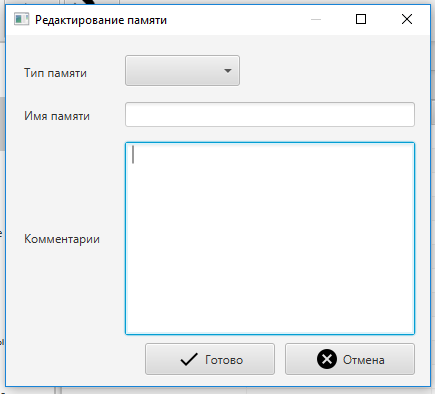
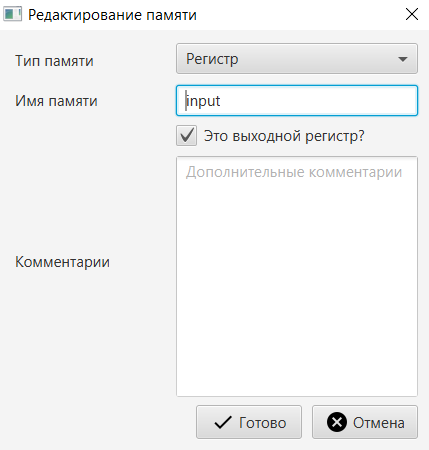
Актуализирована справка по редактору

Changed region(s): [[0.0, 0.0, 1.0, 1.0]]

diff --git a/interface/src/main/resources/help/doc1/WorkWithApp.html b/interface/src/main/resources/help/doc1/WorkWithApp.html
@@ -26,7 +26,7 @@
 является некоторой интегральной характеристикой обрабатываемой
 информации. Примерами алфавитов могут быть цифры, буквы, буквы и цифры
 и тд.</span></p><p><span style="font-family: 'Times New Roman',Times,serif; font-size: x-large;">При двойном нажатии по элементу "Алфавит", &nbsp;в табличном представлении показывается таблица с наборами алфавитов.</span></p>
-<p align="center"><span style="font-family: 'Times New Roman',Times,serif; font-size: x-large;"><img alt="" src="ABC1.png"></span></p>
+<p align="center"><span style="font-family: 'Times New Roman',Times,serif; font-size: x-large;"><img alt="" src="TabView3.jpg"></span></p>
 <p align="center"><font size="5"><font face="Times New Roman, Times, serif"><i>Рисунок 2 - Таблица алфавитов</i></font></font></p>
 <p><font size="5"><font face="Times New Roman, Times, serif">На панели инструментов (снизу) расположены кнопки:</font></font></p>
 <p><font size="5"><font face="Times New Roman, Times, serif"><img alt="" src="ic_add_box_black_24dp_1x.png" height="32" width="32">&nbsp;- Добавление алфавита</font></font></p>
@@ -36,7 +36,7 @@
 	кнопки "Добавить" пользователь может создать свой собственный алфавит.
 	Также, при нажатии кнопки "Редактировать" появится диалоговое окно
 	"Редактор алфавитов", в котором можно редактировать алфавит.</font></font></p>
-<p align="center"><font size="5"><font face="Times New Roman, Times, serif"><img alt="" src="ABC2.png"></font></font></p>
+<p align="center"><font size="5"><font face="Times New Roman, Times, serif"><img alt="" src="ABCEdit.PNG"></font></font></p>
 <p align="center"><i style="font-family: 'Times New Roman',Times,serif; font-size: x-large;">Рисунок 3 -&nbsp;</i><i style="font-family: 'Times New Roman',Times,serif; font-size: x-large;">Окно "Редактор алфавитов"</i></p>
 <h3>&nbsp;</h3>
 <h3><a name="Ja_4"><font size="5"><font face="Times New Roman, Times, serif">Алгоритм</font></font></a></h3>
@@ -45,7 +45,7 @@ RBM осуществляется по R-программе. R-программа
 комплексов команд. Каждая команда состоит из 4 полей:&nbsp;</span></p><ul><li><span style="font-family: 'Times New Roman',Times,serif; font-size: x-large;">поле имени комплекса (т.н. номер вершины),&nbsp;</span><span style="font-family: 'Times New Roman',Times,serif; font-size: x-large;">пропускается, для второго и последующих операторов в теле одной команды</span></li><li><span style="font-family: 'Times New Roman',Times,serif; font-size: x-large;">поле условия (или предиката), пропускается, для второго и последующих операторов в теле одной команды</span></li><li><span style="font-family: 'Times New Roman',Times,serif; font-size: x-large;">поле операторов команды</span></li><li><span style="font-family: 'Times New Roman',Times,serif; font-size: x-large;">поле преемника ( номер конечной вершины, заполняется только для последнего оператора).<br></span></li></ul><p><span style="font-family: 'Times New Roman',Times,serif; font-size: x-large;">При
 двойном нажатии по элементу "Алгоритм", &nbsp;в табличном представлении
 показывается таблица с набором последователностей алгоритма.</span></p>
-<p align="center"><img alt="" src="Algor2.png" style="font-family: 'Times New Roman',Times,serif; font-size: x-large;"></p>
+<p align="center"><img alt="" src="TabView1.jpg" style="font-family: 'Times New Roman',Times,serif; font-size: x-large;"></p>
 <p align="center"><i style="font-family: 'Times New Roman',Times,serif; font-size: x-large; text-align: center;">Рисунок 4 - Таблица алгоритма</i></p>
 <p><font size="5"><font face="Times New Roman, Times, serif">На панели инструментов (снизу) расположены кнопки:</font></font></p>
 <p><font size="5"><font face="Times New Roman, Times, serif"><img alt="" src="ic_add_box_black_24dp_1x.png" height="32" width="32">&nbsp;- Добавить вершину</font></font></p>
@@ -54,7 +54,7 @@ RBM осуществляется по R-программе. R-программа
 <p><font size="5"><font face="Times New Roman, Times, serif">С помощью кнопки "</font></font><span style="font-family: 'Times New Roman',Times,serif; font-size: x-large;">Добавить вершину</span><font size="5"><font face="Times New Roman, Times, serif">", открывается диалоговое окно&nbsp;</font></font><span style="font-family: 'Times New Roman',Times,serif; font-size: x-large;">"Редактор Алгоритма", где</span><span style="font-family: 'Times New Roman',Times,serif; font-size: x-large;">&nbsp;пользователь
 может создать элемент алгоритма. Так же, при двойном щелчке по строке
 вершины алгоритма появится диалоговое окно&nbsp;</span><span style="font-family: 'Times New Roman',Times,serif; font-size: x-large;">"Редактор Алгоритма"</span><span style="font-family: 'Times New Roman',Times,serif; font-size: x-large;">, в котором можно задавать условия и действия для данной вершины.</span></p>
-<p align="center"><font size="5"><font face="Times New Roman, Times, serif"><img alt="" src="Algor2.png"></font></font></p>
+<p align="center"><font size="5"><font face="Times New Roman, Times, serif"><img alt="" src="CommandEdit.PNG"></font></font></p>
 <p align="center"><i style="font-family: 'Times New Roman',Times,serif; font-size: x-large;">Рисунок 5 -&nbsp;</i><i style="font-family: 'Times New Roman',Times,serif; font-size: x-large;">Окно "Редактор Алгоритма"</i></p>
 <p><font size="5"><font face="Times New Roman, Times, serif">Основные операторы Р-кода:</font></font></p>
 <table style="width: 900px;" border="1" cellpadding="0" cellspacing="0">
@@ -317,8 +317,8 @@ RBM осуществляется по R-программе. R-программа
 <h3><a name="Ja_5"><font size="5"><font face="Times New Roman, Times, serif">Память</font></font></a></h3>
 <p><span style="font-family: 'Times New Roman',Times,serif; font-size: x-large;">При
 двойном нажатии по элементу "Память", &nbsp;в табличном представлении
-показывается таблица с набором последователностей памятей.</span></p>
-<p align="center"><img alt="" src="Mem1.png" style="font-family: 'Times New Roman',Times,serif; font-size: x-large;"></p>
+показывается таблица с набором последовательностей памятей. При этом выходные регистры выделены в таблице полужирным шрифтом.</span></p>
+<p align="center"><img alt="" src="TabView2.jpg" style="font-family: 'Times New Roman',Times,serif; font-size: x-large;"></p>
 <p align="center"><i style="font-family: 'Times New Roman',Times,serif; font-size: x-large;">Рисунок 6 - Таблица памятей</i></p>
 <p><font size="5"><font face="Times New Roman, Times, serif">На панели инструментов (снизу) расположены кнопки:</font></font></p>
 <p><font size="5"><font face="Times New Roman, Times, serif"><img alt="" src="ic_add_box_black_24dp_1x.png" height="32" width="32">&nbsp;- Добавить память</font></font></p>

diff --git a/interface/src/main/resources/help/doc1/TabView.html b/interface/src/main/resources/help/doc1/TabView.html
@@ -12,7 +12,7 @@
 			<font face="Times New Roman, Times, serif">Табличное отображение</font>
 		</h1>
 		<p>
-			<span style="font-family: 'Times New Roman', Times, serif; font-size: x-large;">На рисунках 1, 2 и 3 представлены примеры с табличным отображением проекта. Далее в разделе <a href="WorkWithApp.html#Ja_1">Управление проектом</a> будет подробно рассмотрены элементы управления.</span>
+			<span style="font-family: 'Times New Roman', Times, serif; font-size: x-large;">На рисунках 1, 2 и 3 представлены примеры с табличным отображением проекта. Далее в разделе <a href="WorkWithApp.html#Ja_1">Управление проектом</a> будут подробно рассмотрены элементы управления.</span>
 			<font size="5">
 				<font face="Times New Roman, Times, serif">&nbsp;</font>
 			</font>
